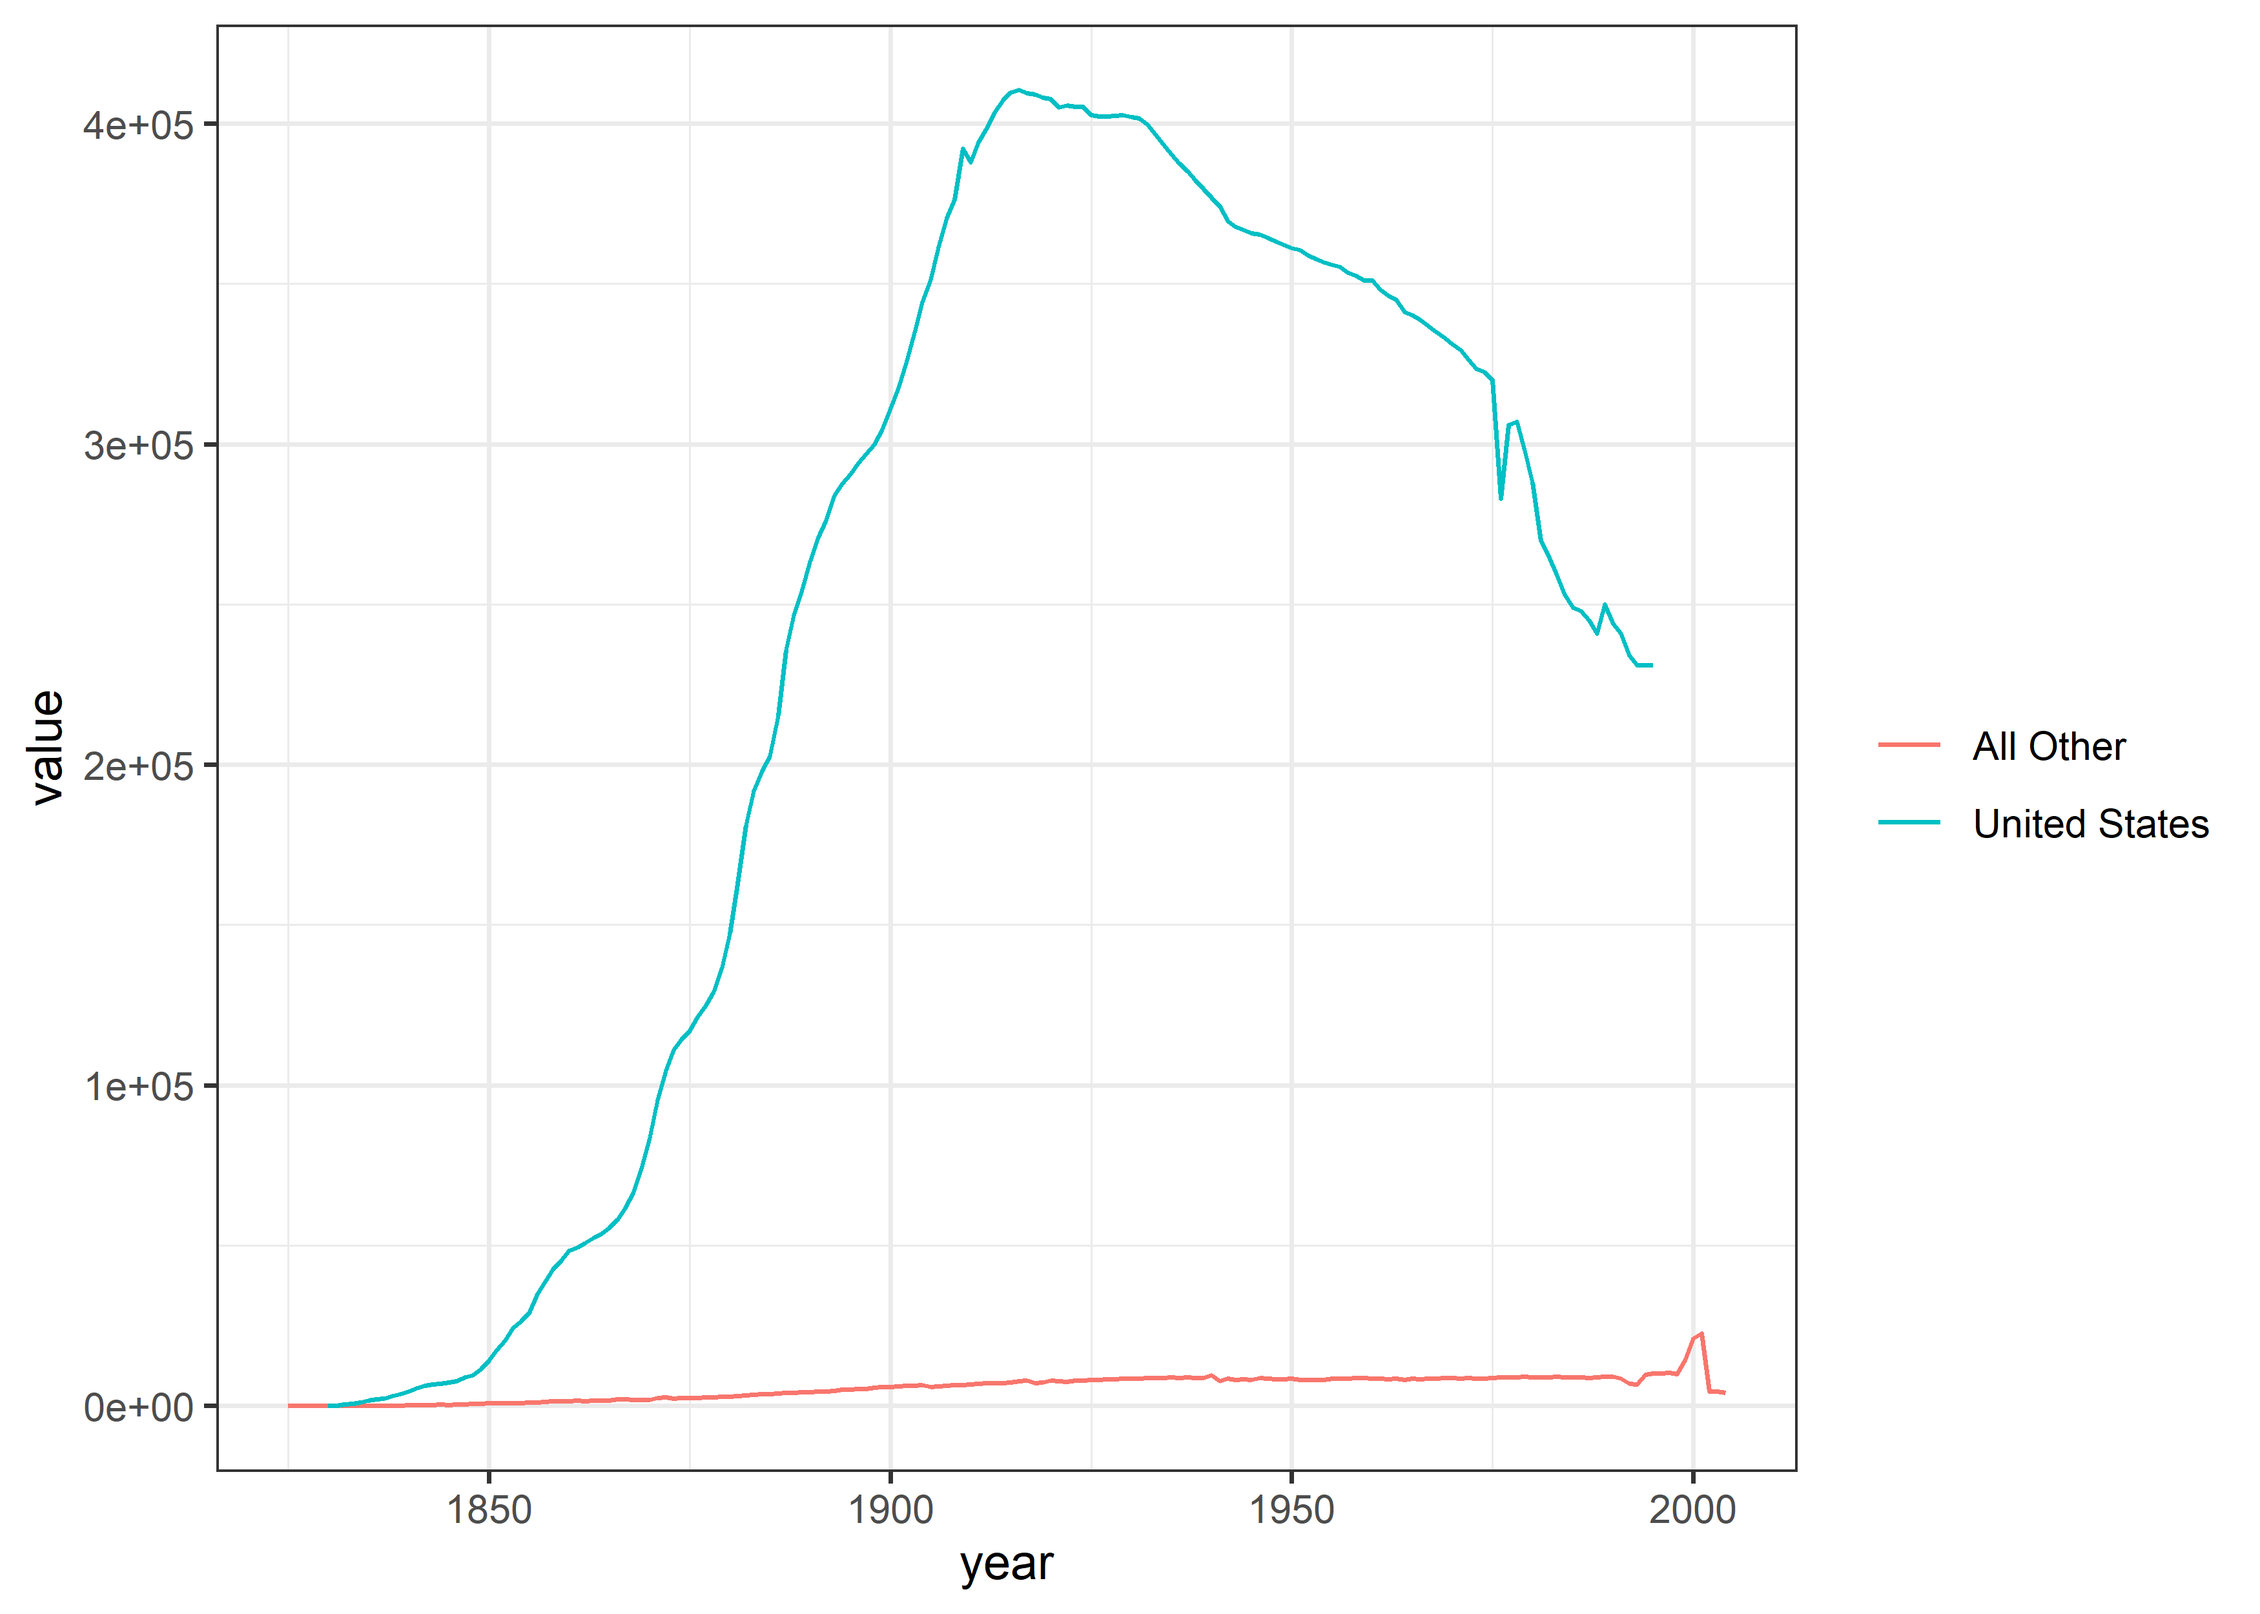
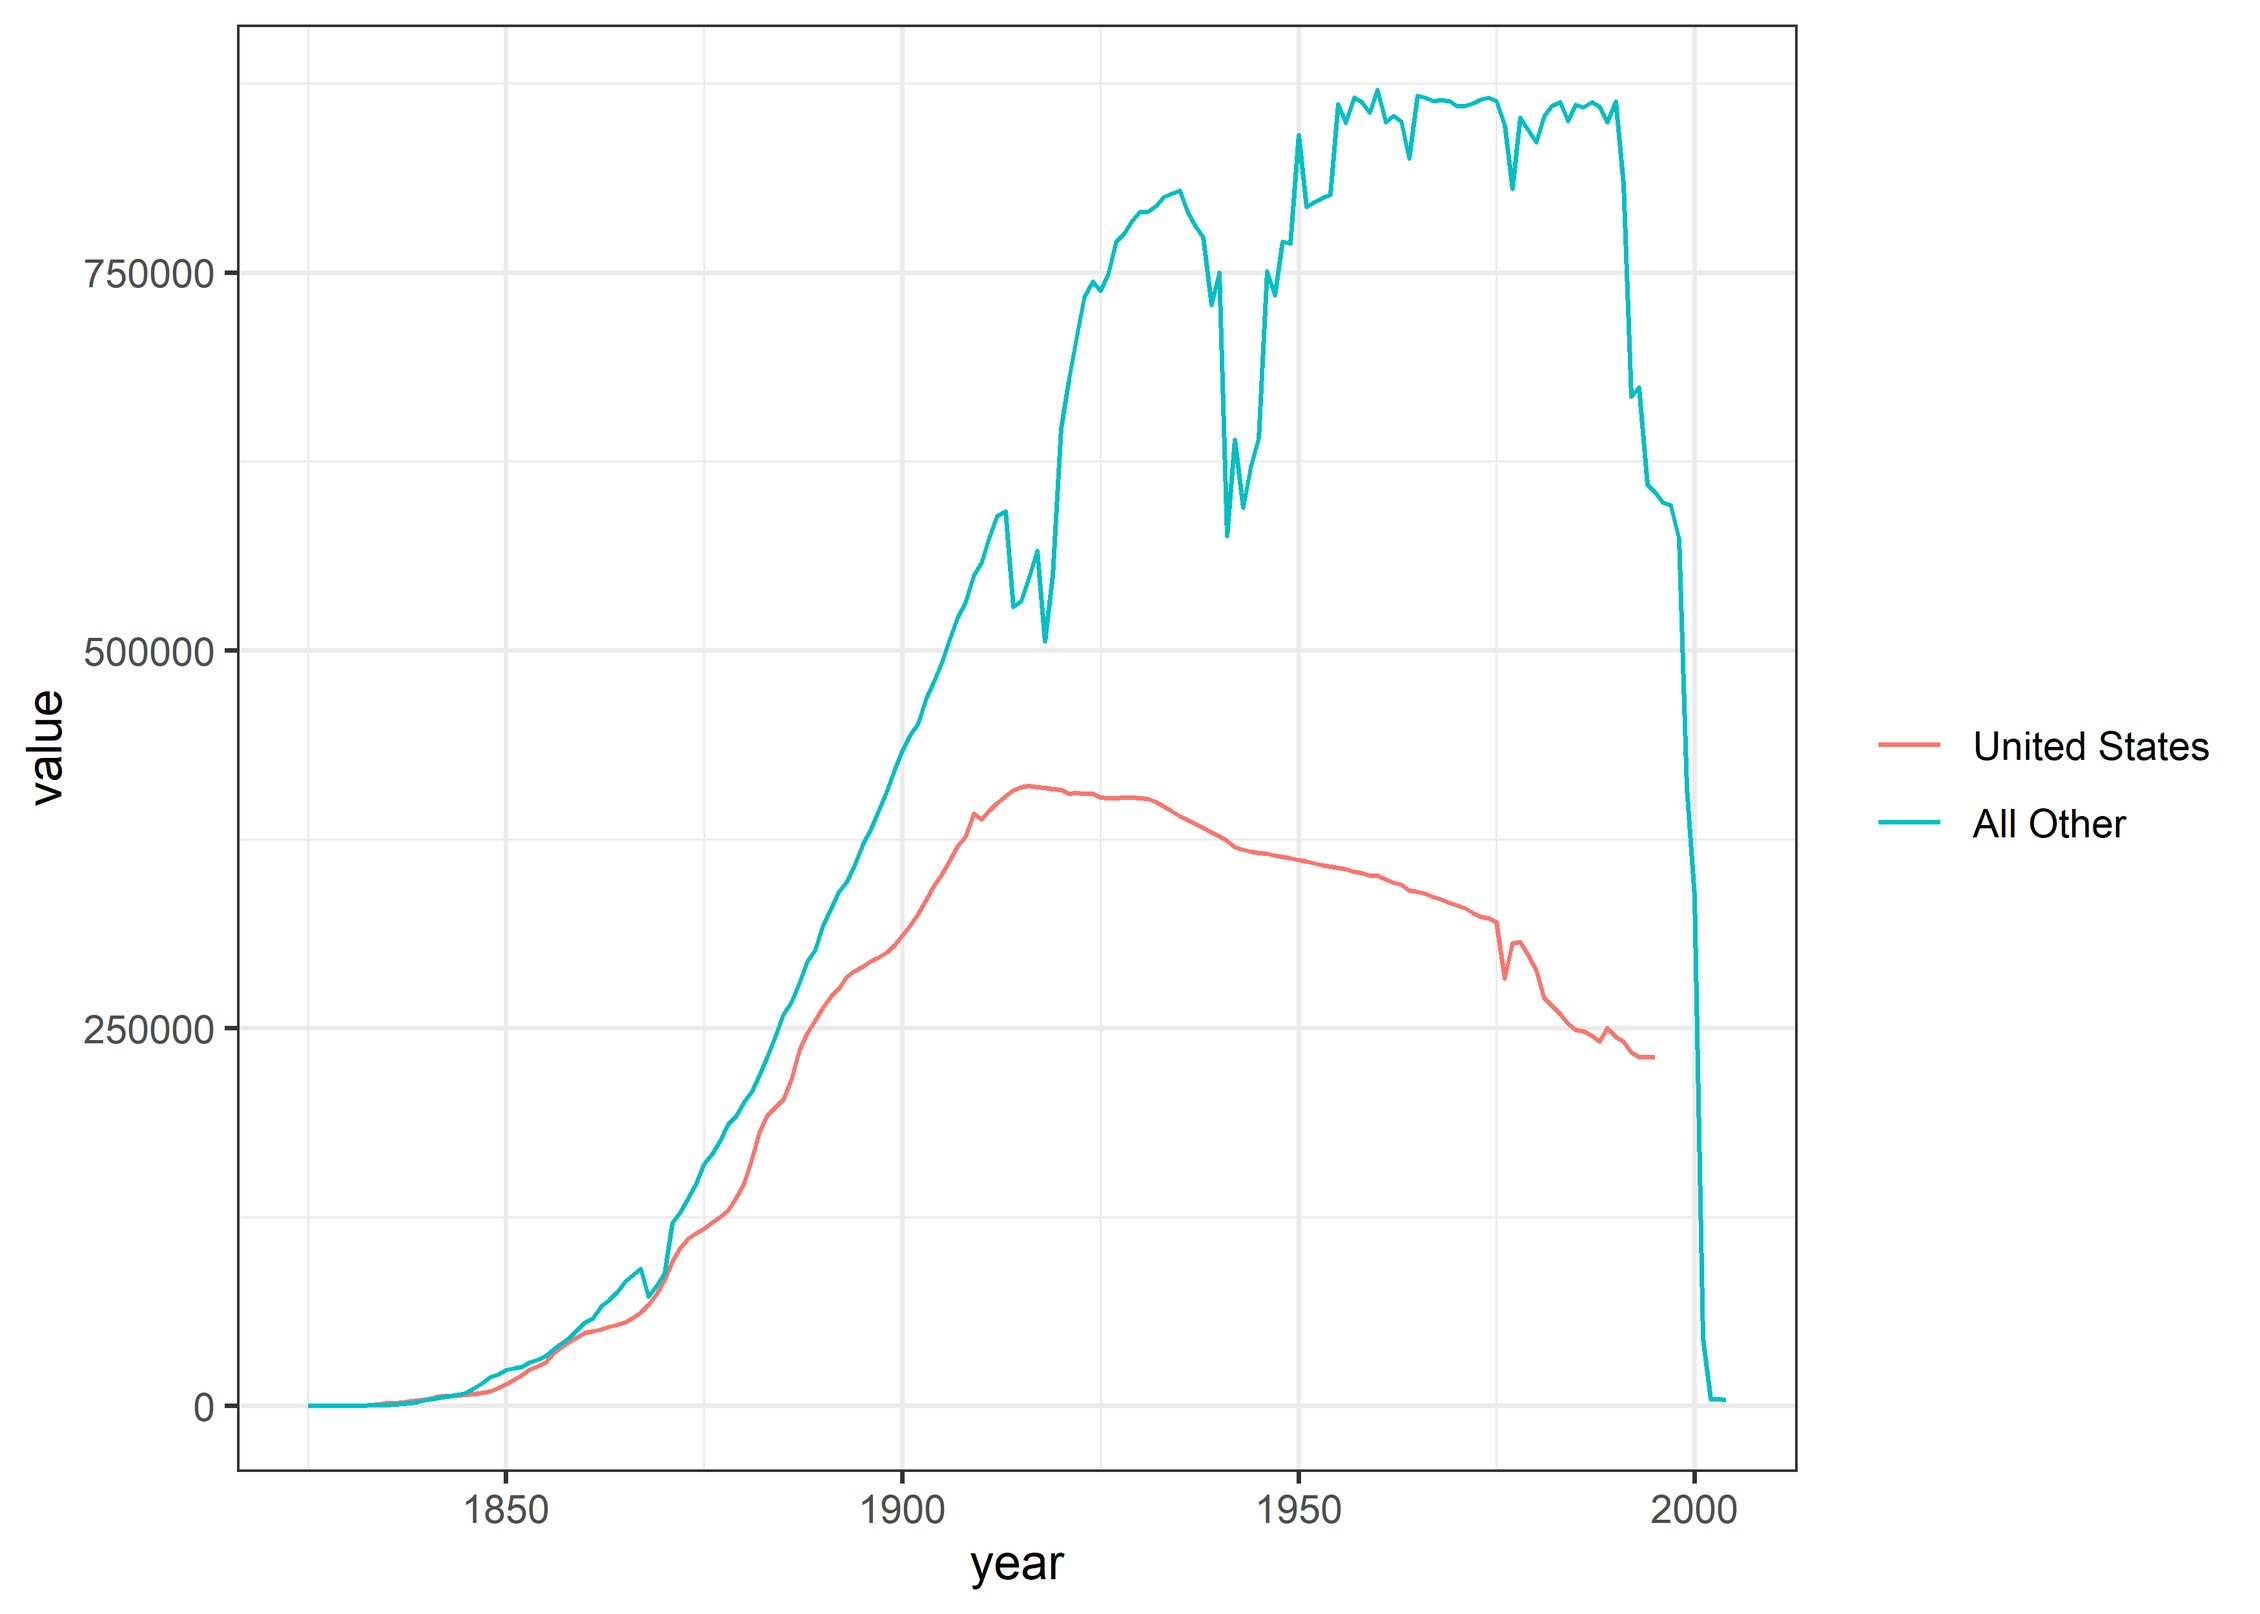
rstudio cloud commit

diff --git a/07-19-22/Technology.md b/07-19-22/Technology.md
@@ -435,10 +435,79 @@ technology %>%
 technology %>% 
   filter(grepl("Geographical", label)) %>%  
   mutate(continent = ifelse(grepl("United States", country), country, "All Other")) %>%
-  gplot(mean(value))
+  gplot(sum(value))
 ```
 
     ## `summarise()` has grouped output by 'continent'. You can override using the
     ## `.groups` argument.
 
 ![](Technology_files/figure-gfm/unnamed-chunk-16-1.png)<!-- -->
+
+# Rstudio cloud
+
+``` r
+tidy_tech <- technology %>% 
+  filter(grepl("dialysis", label)) %>% 
+  group_by(country, year) %>% 
+  summarize(value = mean(value)) %>% 
+  nest(-country) %>% 
+  mutate(model = map(data, ~lm(value ~ year, .)),
+         tidy = map(model, broom::tidy)) %>% 
+  unnest(tidy)
+```
+
+    ## `summarise()` has grouped output by 'country'. You can override using the
+    ## `.groups` argument.
+
+``` r
+tidy_tech %>% 
+  filter(term == "year" & p.value < 0.05) %>% 
+  arrange(-abs(estimate))
+```
+
+    ## # A tibble: 28 x 8
+    ## # Groups:   country [28]
+    ##    country        data     model  term  estimate std.error statistic  p.value
+    ##    <chr>          <list>   <list> <chr>    <dbl>     <dbl>     <dbl>    <dbl>
+    ##  1 United States  <tibble> <lm>   year     4714.     266.      17.7  6.43e-15
+    ##  2 Japan          <tibble> <lm>   year     3906.     389.      10.0  2.02e-11
+    ##  3 Mexico         <tibble> <lm>   year     3755.     404.       9.29 2.43e- 4
+    ##  4 Germany        <tibble> <lm>   year      871.      58.8     14.8  2.40e-15
+    ##  5 Poland         <tibble> <lm>   year      794.     224.       3.55 2.02e- 3
+    ##  6 Spain          <tibble> <lm>   year      550.      47.9     11.5  4.23e-12
+    ##  7 Italy          <tibble> <lm>   year      447.      19.1     23.4  5.01e-18
+    ##  8 France         <tibble> <lm>   year      416.      22.7     18.3  1.35e-15
+    ##  9 Canada         <tibble> <lm>   year      366.      22.7     16.1  1.51e-12
+    ## 10 United Kingdom <tibble> <lm>   year      362.      32.5     11.1  5.80e-11
+    ## # ... with 18 more rows
+
+``` r
+tidy_tech %>% 
+  filter(term == "year" & p.value > 0.05) %>% 
+  arrange(-abs(estimate)) 
+```
+
+    ## # A tibble: 1 x 8
+    ## # Groups:   country [1]
+    ##   country data             model  term  estimate std.error statistic p.value
+    ##   <chr>   <list>           <list> <chr>    <dbl>     <dbl>     <dbl>   <dbl>
+    ## 1 Turkey  <tibble [7 x 2]> <lm>   year     1906.      770.      2.48  0.0561
+
+``` r
+tidy_tech_joined <- tidy_tech %>% 
+  filter(term == "year") %>% 
+  inner_join(technology %>% distinct(country, continent)) 
+```
+
+    ## Joining, by = "country"
+
+``` r
+tidy_tech_joined %>% 
+  filter(country != "Iceland") %>% 
+  ggplot(aes(estimate, fct_reorder(country, estimate))) +
+  geom_col(aes(fill = continent)) + 
+  geom_errorbarh(aes(xmin = estimate - std.error, xmax = estimate + std.error)) +
+  labs(y = "") + scale_x_log10(limits = c(1, 10000), labels = comma)
+```
+
+![](Technology_files/figure-gfm/unnamed-chunk-18-1.png)<!-- -->
